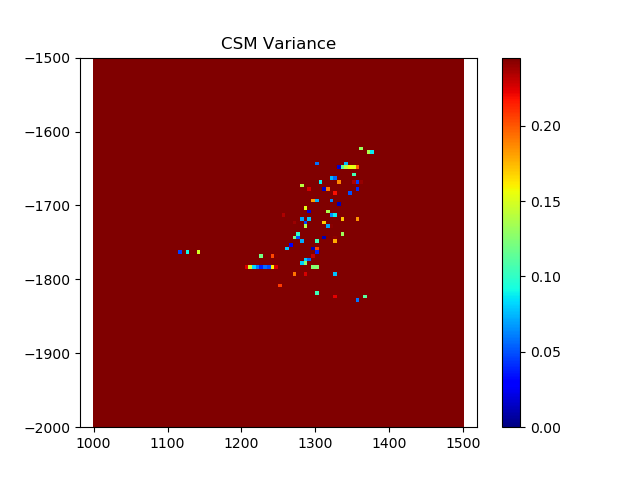
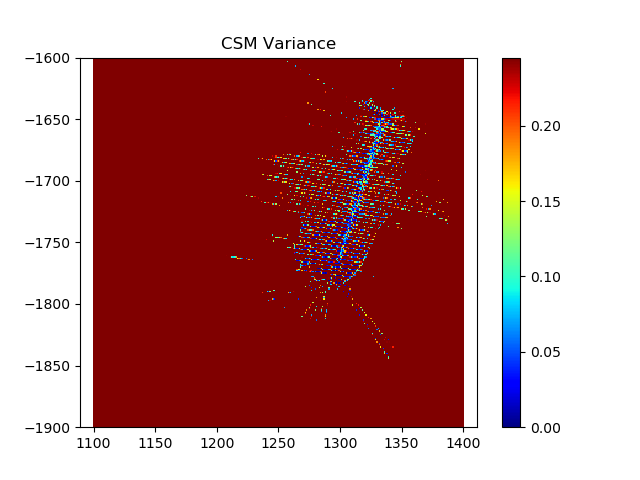
remove points with low intensity

diff --git a/velo_data.py b/velo_data.py
@@ -2,6 +2,8 @@ import velodyne_decoder as vd
 import numpy as np
 import os
 import pickle
+import matplotlib.pyplot as plt
+
 
 config = vd.Config(model='VLP-32C', gps_time=True)
 bagfile = '/home/coned/data/Sample-Data.bag'
@@ -10,8 +12,26 @@ lidar_topics = ['/lidar_blue_scan', '/lidar_green_scan', '/lidar_red_scan', '/li
 cloud_arrays = {}
 for stamp, points, topic in vd.read_bag(bagfile, config, lidar_topics):
     # print(points.shape)
-    indices = np.where(np.logical_and(points[:,2] >= -2, points[:,2] <= 2))
+    indices = np.where(np.logical_and(points[:,3] >= 70. ,np.logical_and(points[:,2] >= -2, points[:,2] <= 2)))
     points = points[indices]
+
+    # data = points[:, 3]
+    # mean = np.mean(data)
+    # variance = np.var(data)
+    # # Compute the histogram of the data using NumPy
+    # hist, bin_edges = np.histogram(data, bins=10)
+
+    # # Create a histogram plot of the data using Matplotlib
+    # plt.hist(data, bins=10)
+    # plt.title("Histogram of Data")
+    # plt.xlabel("Value")
+    # plt.ylabel("Frequency")
+
+    # # Add frequency counts as text annotations on the plot
+    # for i in range(len(hist)):
+    #     plt.text(bin_edges[i], hist[i], str(hist[i]), ha='center', va='bottom')
+
+    # plt.show()
 
     # Check if the 'stamp' key exists in cloud_arrays
     if stamp in cloud_arrays:

diff --git a/ogm_continuous_CSM.py b/ogm_continuous_CSM.py
@@ -14,15 +14,15 @@ class ogm_continuous_CSM:
 
     def __init__(self):
         # map dimensions
-        self.range_x = [1100, 1400]
-        self.range_y = [-1900, -1600]
+        self.range_x = [1306.94, 1315.01]
+        self.range_y = [-1729.28, -1718.78]
 
         # senesor parameters
         self.z_max = 200     # max range in meters
         self.n_beams = 133  # number of beams, we set it to 133 because not all measurements in the dataset contains 180 beams 
 
         # grid map parameters
-        self.grid_size = 1  # adjust this for task 2.B
+        self.grid_size = 0.1  # adjust this for task 2.B
         self.nn = 16            # number of nearest neighbor search
 
         # map structure
